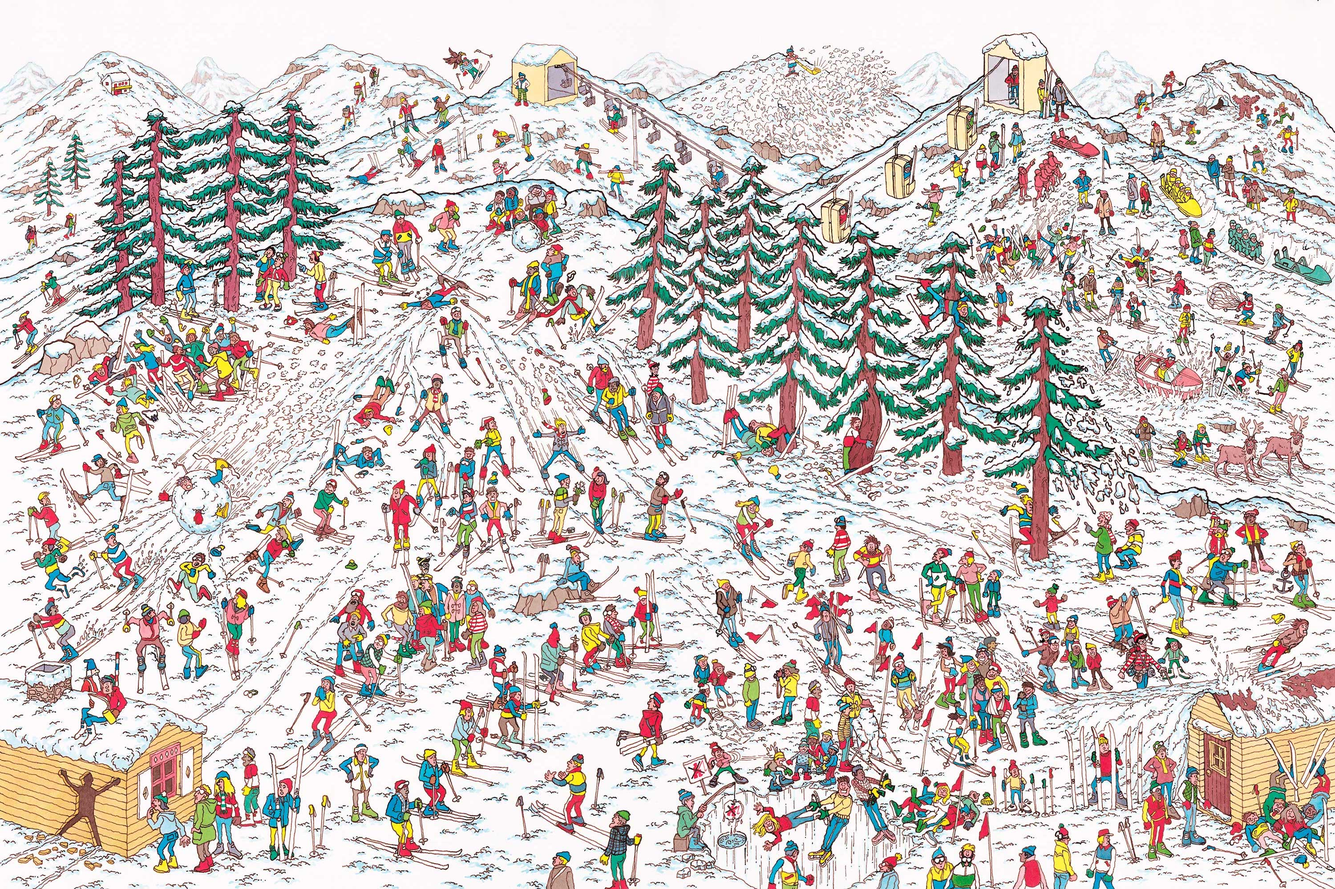
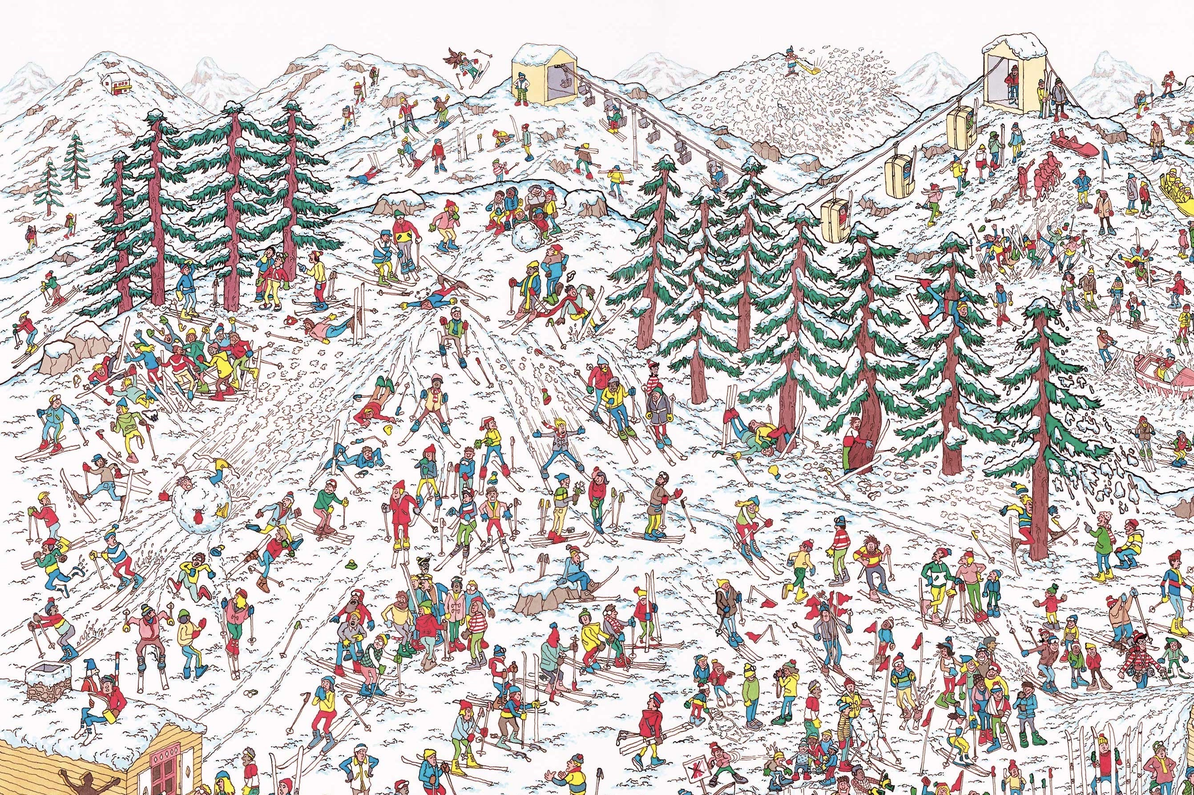
add dynamic reticle and resized beach and snow levels

diff --git a/src/components/Game.js b/src/components/Game.js
@@ -20,10 +20,10 @@ const Game = ({ level }) => {
 
   const fireWaldo = {
     beach: {
-      waldo: { x: 0.603, y: 0.353 },
-      wenda: { x: 0.757, y: 0.386 },
-      wizard: { x: 0.255, y: 0.329 },
-      odlaw: { x: 0.092, y: 0.332 },
+      waldo: { x: 0.69, y: 0.445 },
+      wenda: { x: 0.882, y: 0.484 },
+      wizard: { x: 0.256, y: 0.415 },
+      odlaw: { x: 0.053, y: 0.419 },
     },
   };
 
@@ -44,6 +44,7 @@ const Game = ({ level }) => {
 
   const validateFind = (name) => {
     const img = document.getElementById("level");
+    const reticle = document.getElementById("reticle");
 
     if (
       coords.x / img.width > fireWaldo[level.name][name].x - 0.01 &&
@@ -52,6 +53,18 @@ const Game = ({ level }) => {
       coords.y / img.height < fireWaldo[level.name][name].y + 0.01
     ) {
       setFindWaldo((prevState) => ({ ...prevState, [name]: true }));
+
+      reticle.style.border = "2px solid rgb(34 197 94)";
+
+      setTimeout(() => {
+        reticle.style.border = "2px solid yellow";
+      }, 500);
+    } else {
+      reticle.style.border = "2px solid red";
+
+      setTimeout(() => {
+        reticle.style.border = "2px solid yellow";
+      }, 500);
     }
   };
 

diff --git a/src/components/Reticle.js b/src/components/Reticle.js
@@ -22,8 +22,10 @@ const Reticle = ({
       className="border border-slate-500"
     >
       <div
+        id="reticle"
+        style={{ border: "2px solid yellow" }}
         onClick={() => setShowReticle(false)}
-        className=" h-[3vw] w-[3vw] border-2 border-yellow-300 cursor-default"
+        className=" h-[3vw] w-[3vw] cursor-default"
       ></div>
       <ul className="bg-slate-400 absolute top-0 left-[3.2vw] border border-slate-400 cursor-pointer flex flex-col gap-[1px] w-[7.5rem] rounded overflow-hidden">
         {cast.map((member, i) => (
